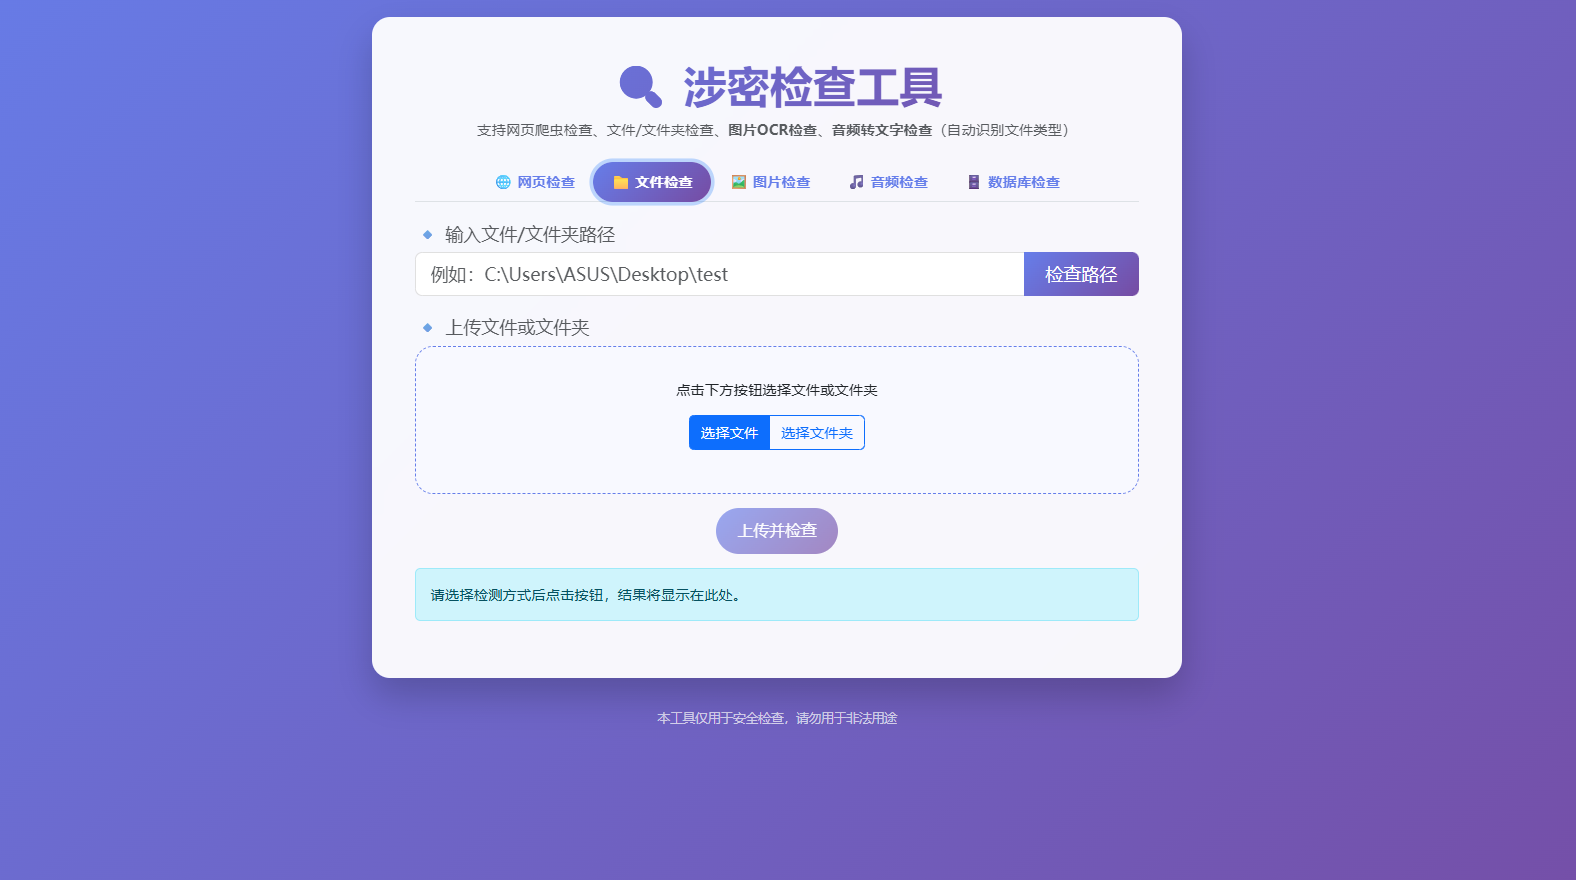
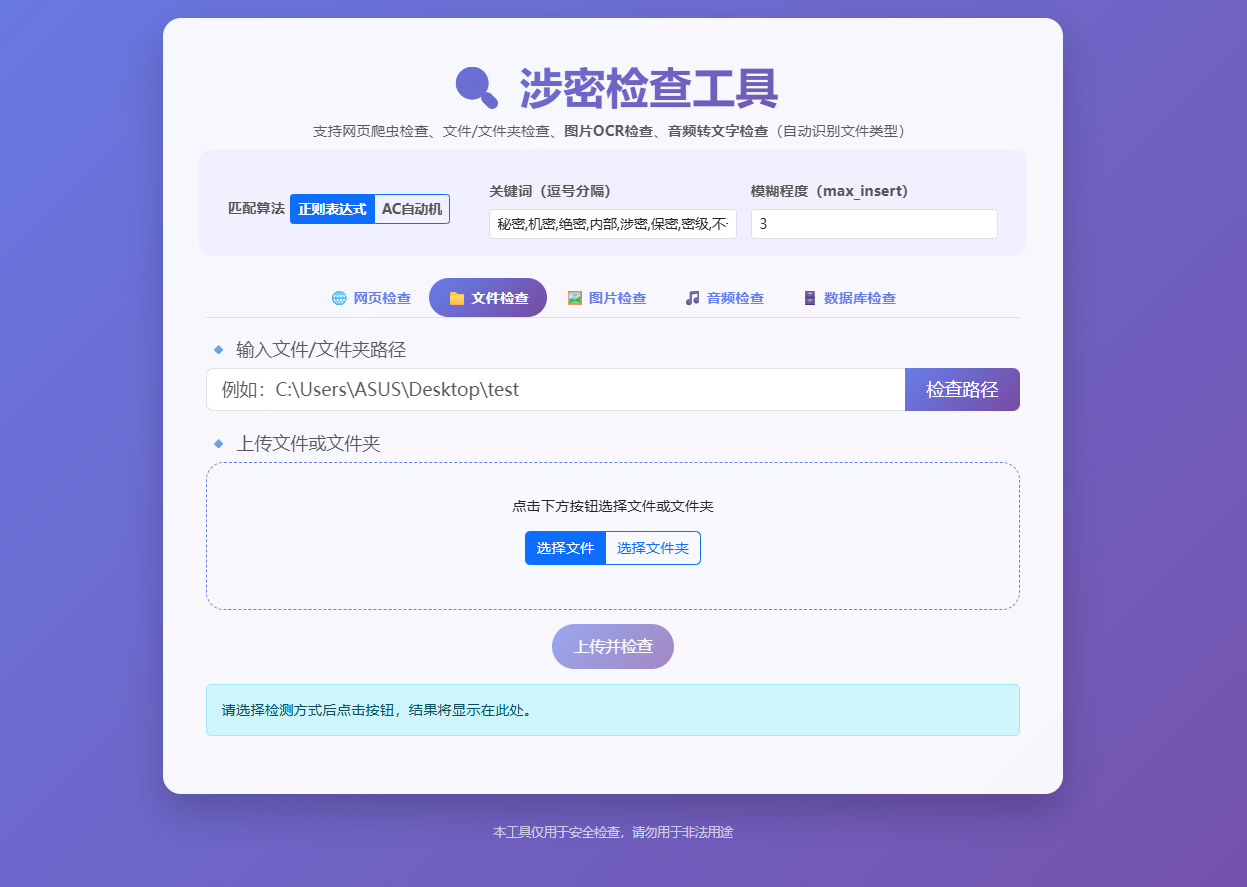
[docs] 改进README

diff --git a/README.md b/README.md
@@ -1,9 +1,8 @@
 # 🔐 自动涉密信息检测系统
 
-
 ## 📌 项目简介
 
-本项目基于 Python + FastAPI 构建，实现了一个**多数据源自动涉密信息检测系统**。系统支持对网页、数据库、文件以及图片中的文本内容进行扫描，通过关键字匹配与正则表达式分析，自动识别潜在的涉密信息，并生成结构化检测报告。
+本项目基于 Python + FastAPI 构建，实现了一个**多数据源自动涉密信息检测系统**。系统支持对网页、数据库、文件以及图片中的文本内容进行并行扫描，通过关键字匹配与正则表达式分析，自动识别潜在的涉密信息，并生成结构化检测报告。
 
 系统具备良好的模块化设计，支持扩展不同类型的数据检测任务，并提供简单易用的 Web 用户界面，方便用户输入检测目标并查看结果。
 
@@ -31,6 +30,8 @@
 * 检测网页总数
 * 涉密网页数量
 * 涉密信息出现位置（具体行号）
+
+> ⚡ **性能优化**：网页爬取采用**异步并发**（`aiohttp`），可同时发起数十个请求，大幅降低大规模站点的抓取时间；涉密检测阶段使用**多进程并行**（`ProcessPoolExecutor`），充分利用多核 CPU，在检测上万页面时仍能保持分钟级响应。并发数和进程数均可按需调整，实际测试中 8000+ 页面的完整检测可在 **5分钟**内完成。
 
 ---
 
@@ -104,27 +105,28 @@
 
 ### 🔍 6. 涉密信息检测策略
 
-系统采用关键字 + 正则表达式的方式进行检测：
+系统采用关键字 + 正则表达式（或 AC 自动机）的方式进行检测，**所有检测参数均可在 Web 界面动态配置**，无需修改代码或重启服务。
 
-#### 关键词：
+#### 📝 可配置项（前端全局配置区）
 
-```
-秘密, 机密, 绝密, 内部, 涉密, 军事秘密, 国家秘密, 商业秘密, 保密, 密级, 不予公开
-```
-#### 关键词可以自行更改：
-位于checker/keywords.py中，默认如下
-```
-KEYWORDS = [
-            "秘密", "机密", "绝密", "内部", "涉密",
-            "军事秘密", "国家秘密", "商业秘密",
-            "保密", "密级", "不予公开"
-        ]
-```
+| 配置项 | 说明 | 默认值 |
+|--------|------|--------|
+| **匹配算法** | 支持 **正则表达式** 和 **AC自动机** 两种算法 | 正则表达式 |
+| **关键词列表** | 逗号分隔的涉密关键词，可任意增减 | 秘密,机密,绝密,内部,涉密,保密,密级,不予公开 |
+| **模糊程度（max_insert）** | 允许的最大干扰字符数（支持空格/符号混入），提升抗干扰能力 | 3 |
+
 #### 正则增强：
 
 * 支持空格/任意符号干扰匹配（如：绝 密、机-密、机123密）
-* 干扰强度可以自己改（在regex_leak_detector.py中），默认为3个字符
+* 干扰强度可通过 `max_insert` 滑块实时调节
 * 支持模糊匹配，提高检测鲁棒性
+
+#### 检测流程：
+
+1. 根据用户选择的前端参数动态生成检测引擎
+2. 提取目标文本后逐行匹配
+3. 记录匹配到的关键词、行号和上下文
+4. 生成可视化报告
 
 ---
 
@@ -138,12 +140,16 @@ KEYWORDS = [
 │   ├── image_checker.py
 │   ├── audio_checker.py
 │   └── db_checker.py
-├── utils/                # 核心工具模块
-│   ├── crawler.py
+├── detector/            # 关键词检查器模块
 │   ├── leak_detector.py
 │   ├── regex_leak_detector.py
+│   └── AC_leak_detector.py      
+├── utils/                # 核心工具模块
+│   ├── crawler.py
+│   ├── hidden_and_encrypted_checker.py
 │   ├── office_parser.py
-│   └── report_generator.py
+│   ├── report_generator.py
+│   └── parallel.py       #并行执行框架（线程/进程池）
 ├── templates/            # 前端页面
 │   └── index.html
 └── static/               # 静态资源
@@ -158,6 +164,8 @@ KEYWORDS = [
 * 动态加载检测模块（高扩展性）
 * 前后端分离（FastAPI + HTML）
 * 工具层与业务层解耦
+* **高性能并行处理**：网页爬取采用 `aiohttp` 异步 I/O，涉密检测支持 `ProcessPoolExecutor` 多进程并行，轻松应对大规模数据源
+* **前端可配置策略**：匹配算法、关键词、模糊程度全部由前端传入后端，实时生效
 
 ---
 
@@ -171,6 +179,8 @@ KEYWORDS = [
 * 图片路径
 
 并可直接查看检测结果及下载报告。
+
+> 🆕 **全局配置区**：在检测表单上方提供独立配置面板，可动态切换**正则表达式 / AC自动机**算法，自定义**关键词列表**（逗号分隔），调整**模糊程度**（0~10），所有检测任务均使用当前配置，无需重启服务。
 
 ---
 
@@ -215,17 +225,16 @@ http://127.0.0.1:8001
 
 ---
 
-## 🚀 项目亮点（加分项）
+## 🚀 项目亮点
 
 * ✅ 支持多数据源统一检测（网页 / DB / 文件 / 图片 / 音频）
 * ✅ 模块化架构，易扩展
 * ✅ 本地 OCR, whisper识别
-* ✅ 正则模糊匹配（提升检测能力）
+* ✅ 正则模糊匹配 + AC自动机双算法支持
+* ✅ 前端可配置检测策略（算法、关键词、模糊度）
 * ✅ 自动报告生成（高可读性）
 * ✅ Web 可视化界面（可交互）
-
-
-
+* ✅ 异步爬虫 + 多进程并行检测，高性能处理海量页面
 
 ## 📎 说明
 